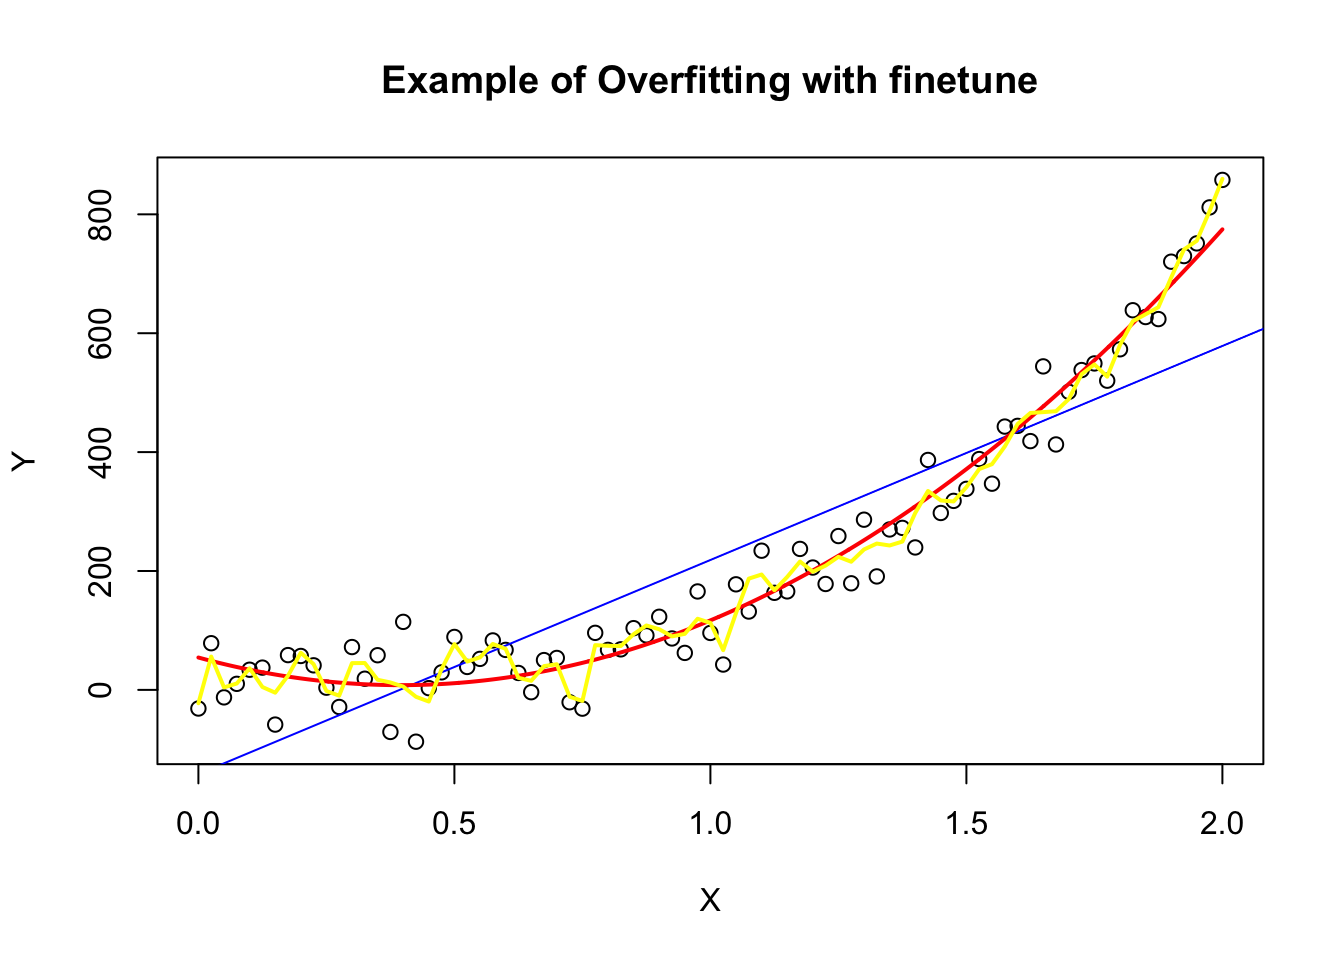
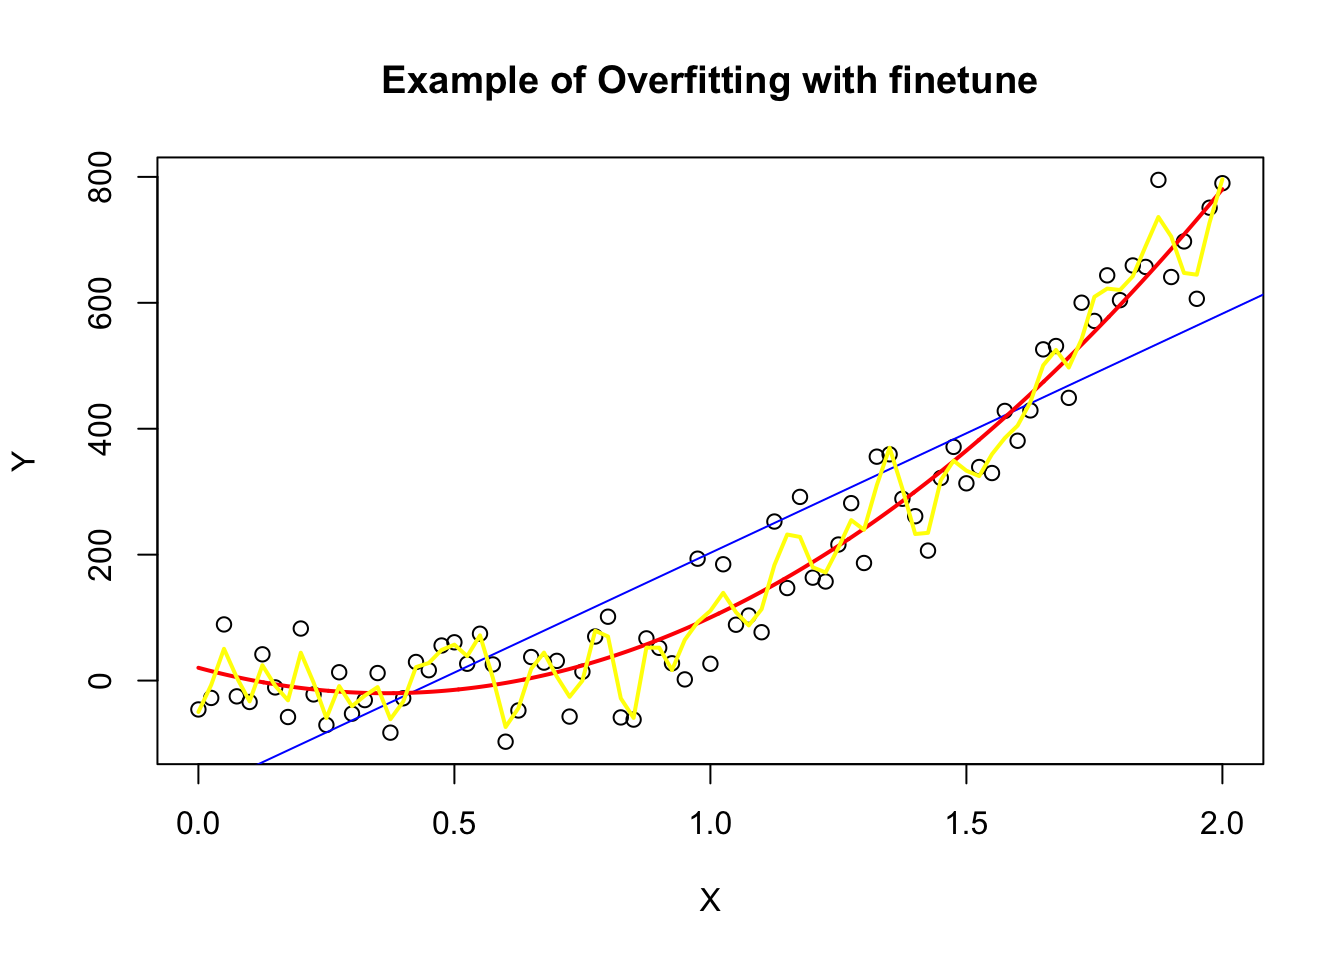
Add files via upload

diff --git a/assignment2.html b/assignment2.html
@@ -287,16 +287,16 @@ replace the existing scale.</code></pre>
 <span id="cb4-37"><a href="#cb4-37" aria-hidden="true" tabindex="-1"></a>Y <span class="ot">&lt;-</span> <span class="fu">rnorm</span>(<span class="dv">50</span>)</span>
 <span id="cb4-38"><a href="#cb4-38" aria-hidden="true" tabindex="-1"></a>Y</span></code><button title="Copy to Clipboard" class="code-copy-button"><i class="bi"></i></button></pre></div>
 <div class="cell-output cell-output-stdout">
-<pre><code> [1]  0.733029933  0.072251772 -0.114741934 -0.113116541  0.159590210
- [6] -0.326005063  1.052297696 -0.491974119  1.866822415 -0.723968952
-[11]  2.051388366 -0.246415363  1.080139231 -0.188667032 -0.153946476
-[16] -0.251724490 -0.732406659 -1.108944730 -1.067201753  0.413004595
-[21]  0.368841024  0.262920282 -1.113220948 -1.598164518  0.723628140
-[26]  0.417621864  0.166695517  2.793135396  0.498776869  1.450668096
-[31] -0.430517266 -1.546654683  0.002562824 -0.284920350 -0.546528061
-[36] -0.904932194 -1.491528296  0.353022977  0.070051400 -1.155658013
-[41]  0.949180130 -0.694783665 -0.186793097  0.738810007  0.132245778
-[46]  0.692560320  1.220756552  0.762994739  1.223792319 -1.365926839</code></pre>
+<pre><code> [1]  0.796384031  0.978007739  0.700548282 -0.173488446  0.325441945
+ [6] -1.333318810 -0.802015685 -0.001926805 -1.532959817  1.588827409
+[11]  0.579887946 -0.385681628  1.025566283  0.014225246  0.901838437
+[16] -0.122770249  1.045021713 -0.844798985 -0.933307143  0.041442792
+[21] -0.131014242  0.504866069  2.186129749 -1.641256790  1.469949681
+[26]  0.399921862  3.248336431 -0.390109938 -0.807095976 -0.344043165
+[31] -0.038774072 -0.500159452 -1.246563877  0.305697840 -0.401952538
+[36]  0.199597421 -1.538398758 -0.560311935 -1.583033836  0.521153106
+[41]  0.987384939 -0.674871721 -1.005967764  0.416818197 -0.646636384
+[46]  2.542717379  0.544438537  1.630106131  0.345419369  0.507082356</code></pre>
 </div>
 <div class="cell-output-display">
 <p><img src="assignment2_files/figure-html/unnamed-chunk-3-1.png" class="img-fluid" width="672"></p>

diff --git a/assignment6.html b/assignment6.html
@@ -166,7 +166,6 @@ ul.task-list{list-style: none;}
 </section>
 <section id="the-below-i-did-embed-the-shiny-app-i-created-which-also-can-find-at-httpsseongdeokoh.shinyapps.ioassignment06" class="level5">
 <h5 class="anchored" data-anchor-id="the-below-i-did-embed-the-shiny-app-i-created-which-also-can-find-at-httpsseongdeokoh.shinyapps.ioassignment06">The below I did embed the Shiny app I created, which also can find at <a href="https://seongdeokoh.shinyapps.io/Assignment06" class="uri">https://seongdeokoh.shinyapps.io/Assignment06</a></h5>
-<p>&lt;iframe width=“800” height=“600” src=” <a href="https://seongdeokoh.shinyapps.io/Assignment06/?_ga=2.232681499.52106732.1669174605-679691802.1669174605">https://seongdeokoh.shinyapps.io/Assignment06/</a><a href="https://eliannaevans.shinyapps.io/assignment07/%22">”</a> frameborder=“0” allowfullscreen&gt; &lt;/iframe&gt;</p>
 
 
 </section>
